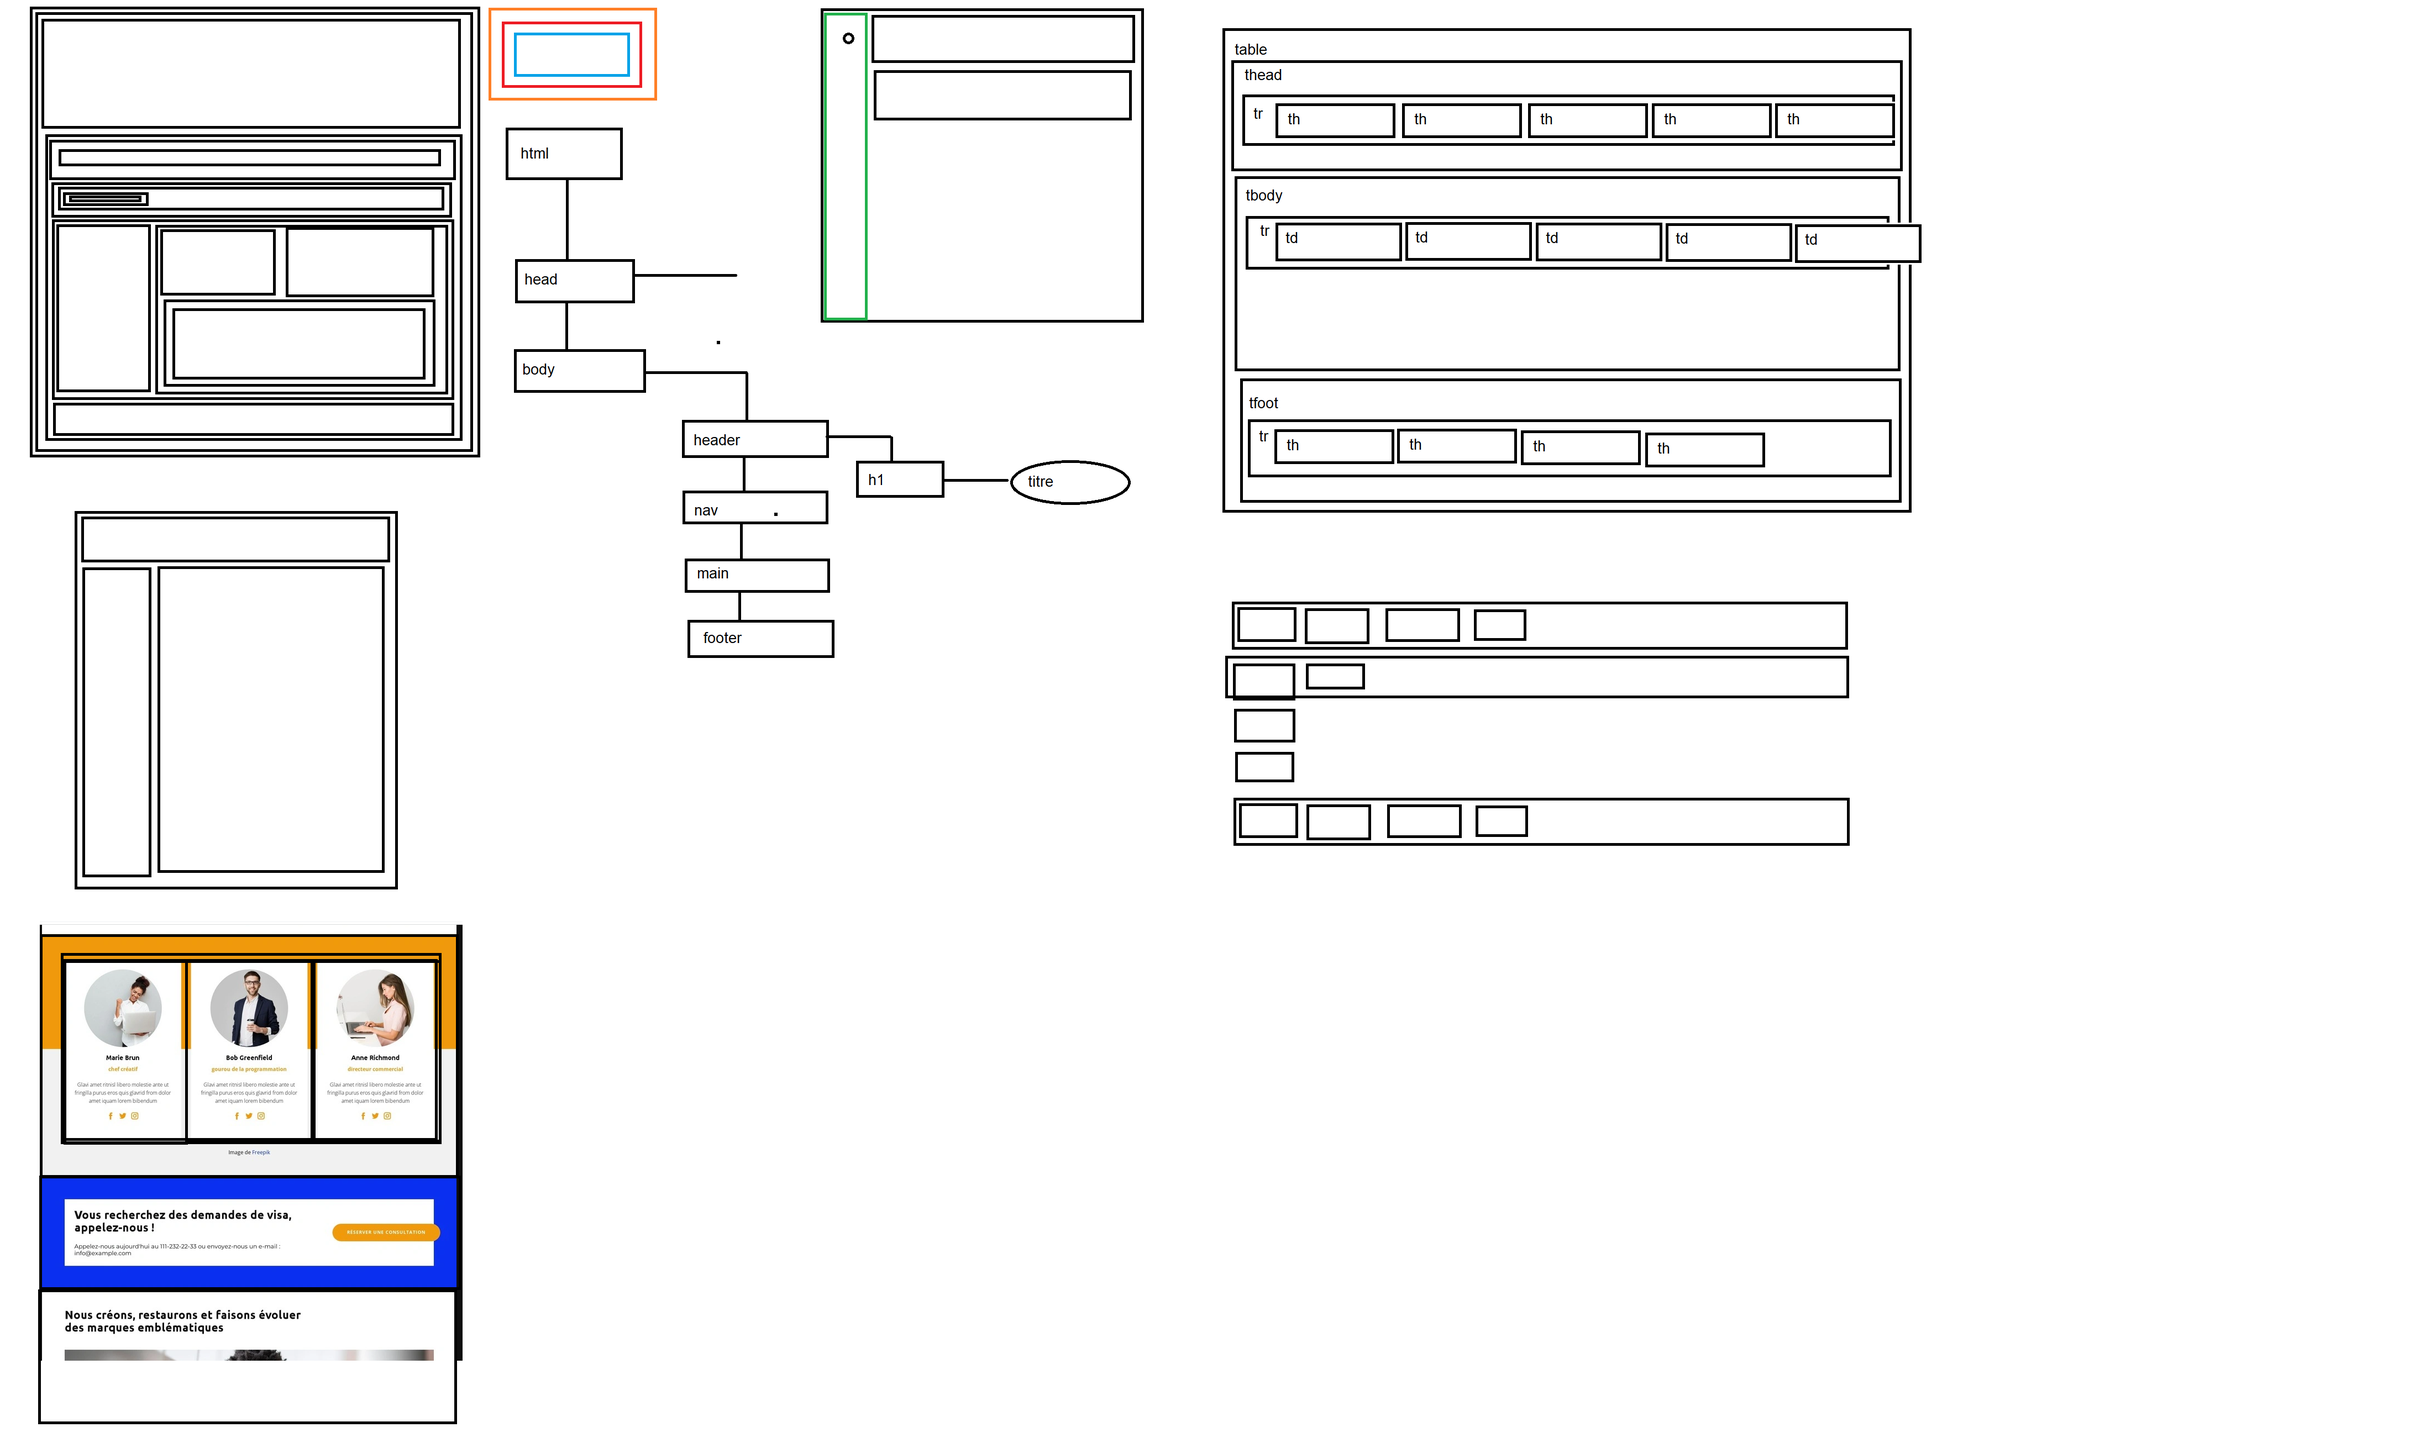
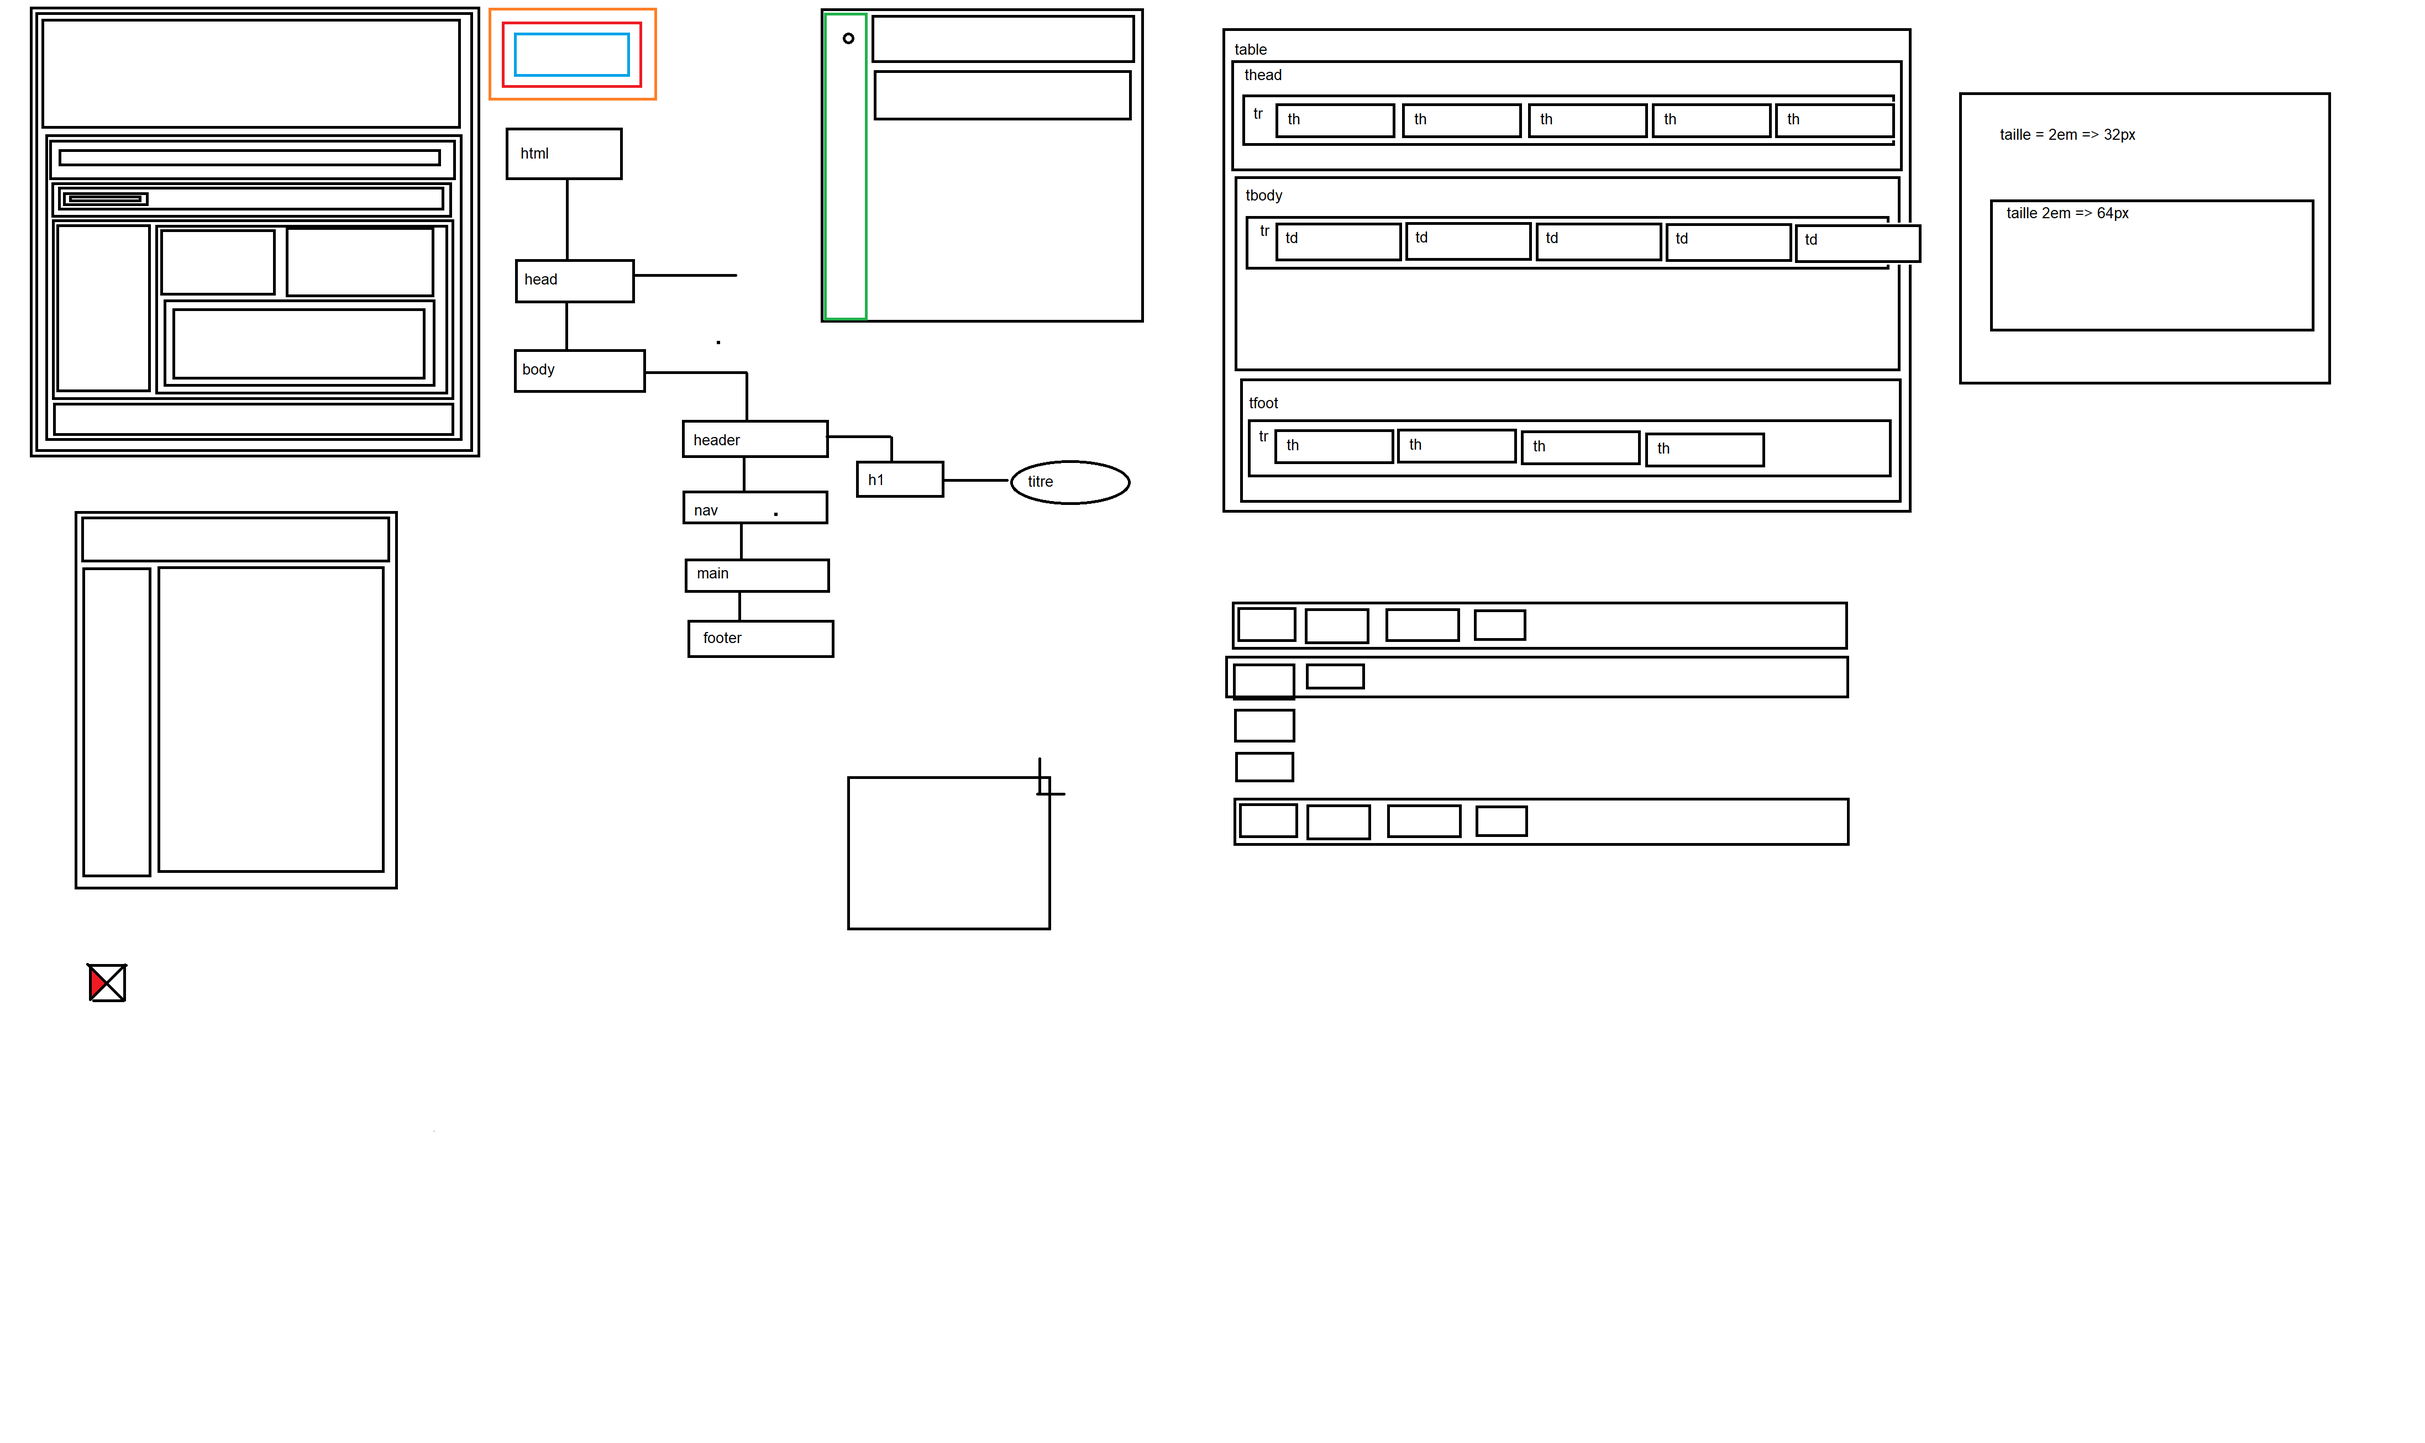
les formulaires pt 1

diff --git a/formulaire.html b/formulaire.html
@@ -1,0 +1,154 @@
+<!DOCTYPE html>
+<html lang="fr">
+
+<head>
+    <meta charset="UTF-8" />
+    <meta name="viewport" content="width=device-width, initial-scale=1.0" />
+    <meta name="description" content="Le site fait avec le formateur pour la formation HTML - CSS Initiation" />
+    <title>Formation HTML CSS - Les liens</title>
+    <link rel="stylesheet" href="./css/style.css" media="screen" />
+    <link rel="stylesheet" href="./css/formulaire.css" media="screen" />
+</head>
+
+<body id="top">
+    <header>
+        <h1>Formation HTML CSS</h1>
+    </header>
+    <nav>
+        <ul>
+            <li><a href="./" target="_self" title="Lien vers la page d'accueil">Accueil</a></li>
+            <li><a href="./liens.html" target="_self" title="Les liens internet">Les liens</a></li>
+            <li><a href="./autres-balises.html" target="_self" title="Lien vers autres balises">Autres balises</a></li>
+            <li><a href="./css-intro.html" target="_self" title="lien vers l'intro CSS">CSS Intro</a></li>
+            <li><a href="./formulaire.html" target="_self" title="lien vers les formulaire">Formulaires</a></li>
+        </ul>
+    </nav>
+    <aside>
+        <nav>
+            <h3>Calendrier</h3>
+            <ul>
+                <li><a href="#" target="_self" title="test">lien Calendrier</a></li>
+                <li><a href="#" target="_self" title="test">lien Calendrier</a></li>
+                <li><a href="#" target="_self" title="test">lien Calendrier</a></li>
+                <li><a href="#" target="_self" title="test">lien Calendrier</a></li>
+                <li><a href="#" target="_self" title="test">lien Calendrier</a></li>
+            </ul>
+        </nav>
+    </aside>
+    <main>
+        <section>
+            <article>
+                <header>
+                    <h2>
+                        Les formulaires
+                    </h2>
+                </header>
+                <main>
+                    <p>
+                        Les formulaires servent à récupérer des informations.
+                    </p>
+                    <h2>Exemple de formulaire et déléments de formulaire</h2>
+                    <p>
+                        un formulaire se déclare avec la balise form. Il possède des attributs, 
+                        les plus important étants la méthode (method) et l'action (action)
+                    </p>
+                    <h3>Method</h3>
+                    <p>
+                        L'attribut method défini la façon dont vont être envoyées les données inscrites dans les 
+                        éléments du formulaire : get et post
+                    </p>
+                    <ul>
+                        <li>
+                            get : les données sont transférées dans l'url selon 
+                            une combinaison ?nomVariable=variable
+                        </li>
+                        <li>
+                            Post : Les données sont envoyées dans l'entête HTTP de la page de traîtement.
+                        </li>
+                    </ul>
+                    <h3>Action</h3>
+                    <p>
+                        Détermine la page de traîtement des données du formulaire
+                    </p>
+                    <h3>Notre formulaire</h3>
+                    <form method="get" action="./formulaire.html">
+                        <fieldset>
+                            <legend>
+                                Civilité
+                            </legend>
+                            <p>
+                                <label for="nom">Nom *</label> 
+                                <input type="text" name="nom" id="nom" required placeholder="Entrez votre nom" autofocus aria-describedby="nom-help" />
+                            </p>
+                            <div class="form-help" id="nom-help">
+                                Votre nom est requis pour la prise de contact ultérieure
+                            </div>
+                            <p>
+                                <label for="prenom">Prénom</label> 
+                                <input type="text" name="prenom" id="prenom" placeholder="Entrez votre prénom" aria-describedby="prenom-help" />
+                            </p>
+                            <div class="form-help" id="prenom-help">
+                                Inscrivez votre prénom
+                            </div>
+                            <p>
+                                <label for="email">Email *</label> 
+                                <input type="email" name="email" id="email" required placeholder="Entrez votre email" aria-describedby="email-help" />
+                            </p>
+                            <div class="form-help" id="prenom-help">
+                                Votre email est requis pour la prise de contact ultérieure
+                            </div>
+                        </fieldset>
+                        <fieldset>
+                            <legend>
+                                Votre demande
+                            </legend>
+                            <p>
+                                <label for="typeDemande">Type de demande</label> 
+                                <select name="typeDemande" id="typeDemande" aria-describedby="typeDemande-help">
+                                    <option value="">Choisir le type de demande dans la liste</option>
+                                    <optgroup label="Produits">
+                                        <option value="devisProduit">
+                                            Demande de devis produit
+                                        </option>
+                                        <option value="infoProduit">
+                                            Demande d'information produit
+                                        </option>
+                                    </optgroup>
+                                    <optgroup label="Prestations">
+                                        <option value="devisPresta">
+                                            Demande de devis prestation
+                                        </option>
+                                        <option value="infoPresta">
+                                            Demande d'information prestation
+                                        </option>
+                                    </optgroup>
+                                </select>
+                                <div class="form-help" id="typeDemande-help">
+                                    Veuillez choisir un type de demande valide.
+                                </div>
+                            </p>
+                            <p>
+                                
+                            </p>
+                        </fieldset>
+                        <p>
+                            <button type="submit" name="envoi" value="okForm">
+                                Soumettre
+                            </button>
+                        </p>
+                    </form>
+                </main>
+            </article>
+        </section>
+    </main>
+    <footer>
+        <p>
+            &copy; DAWAN - JUL 2023
+        </p>
+    </footer>
+    <div id="toTop">
+        <a href="#top">&uarr;</a>
+    </div>
+</body>
+
+</html>

diff --git a/css/style.css b/css/style.css
@@ -1,3 +1,63 @@
+/*
+Unités de dimension les plus utilisés en web
+
+px          =>  Pixel
+em          =>  cadratin : unité de mesure en print sur les presses. 
+                le cadratin se calcul part rapport à la taille de la police dans l'élément parent
+rem         =>  cadratin racine : se calcul part rapport à la taille de la police dans l'élément racine
+%           =>  Pourcentage, de l'espace disponible autour de l'élément
+vw & vh     =>  vw : viewport widthn; vh : viewport height
+
+*/
+
+/*
+
+sélecteur CSS :
+    ATTENTION : en CSS, on impacte tous les éléments correspondants aux sélecteurs écrit
+    
+    sélecteurs simples : balise, identifiant et par classe
+        p                   => tous les éléments p rencontrés dans le document
+                            pas de caractère spécial devant l'élément donc il s'agit d'une balise
+        #special            => l'élément ayant comme attribut id="special"
+                            le caractère # indique qu'on se réfère à l'id
+                            => les id sont uniques dans la page
+        .titreDeChapitre    => les éléments ayant au moins la class="titreDeChapitre" 
+                            le caractère . indique qu'on se réfère à une classe
+                            => ATTENTION : si un élément class="titreDeChapitre toto tata" comme il possède au moins
+                            la classe titreDeChapitre alors il sera trouvé
+    Sélecteur avancés : selon les attributs                                  
+        [data-test]                     => les éléments ayant au moins un attribut nommé data-test
+        [alt]                           => les éléments ayant au moins un attribut alt
+        [data-test="toto"]              => les éléments ayant au moins un attribut nommé data-test="toto"
+        [data-col][data-line]           => les éléments ayant au moins un attribut data-col ET un attribut data-line
+        [data-col="3"][data-line]       => les éléments ayant au moins un attribut data-col="3" ET un attribut data-line
+        [data-col][data-line="2"]       => les éléments ayant au moins un attribut data-col ET un attribut data-line="2"
+        [data-col="3"][data-line="2"]   => les éléments ayant au moins un attribut data-col="3" ET un attribut data-line="2"
+
+    Sélecteur avancés : mélange des sélecteurs simples et ou de sélecteurs avancés
+        h3.titreDeChapitre  => tous les titre h3 ayant la classe titreDeChapitre
+                            si l'élément et la classe sont collés, c'est que l'élément doit avoir au moins cette classe
+        article #special    => un élément avec id="special" enfant direct OU indirect d'un élément article
+                            si l'élément et l'id recherché sont séparés, cela indique une filiation directe ou indirecte
+        main > p            => tous les éléments p enfants directs d'un élément main
+                            le chevron fermant > entre les deux éléments indique une filiation directe.
+        p#special           => un élément p avec id="special"
+        .toto.tata          => un élément ayant au moins les deux classes suivantes toto et tata
+        .toto .tata         => un élément ayant au moins la classe tata enfant direct ou indirect d'un élément ayant au moins la classe toto
+    
+    Pseudo sélecteurs (sélécteur qui permet des "tri" ou des "filtres" sur des sélecteurs )
+        p:nth-of-type(odd)  => tous les paragraphes du document en position impaire
+                            nth-child() le(s) nième(s) enfant(s)
+                            les paramètres : 
+                                odd => impaire - event => paire, Xn => tous les X enfants , Y => le Yème
+                                2n+1
+
+        article:last-child:nth-of-type(4n+3)    => l'article doit être le dernier article et le troisième article d'une ligne de 4
+                                                paramètres :    4n => le nombre d'élément par ligne
+                                                                +3 => le troisième de la ligne
+
+*/
+
 /* déclarations générales */
 /* 
 la déclaration à la racine permet de définir des éléments avant la feuille de style du navigateur.
@@ -107,11 +167,19 @@ p.bilbo{
 
 #listeCustom li::before{
     content: ">";
-    border: 5px solid transparent;
-    border-left-width: 10px;
-    border-left-color: red;
+}
+
+.triangle-rouge{
     width: 0;
     height: 0;
+    --taille-base: 50px;
+    border-color: transparent;
+    border-style: solid;
+    border-left-width: calc( var(--taille-base) * 0.866);
+    border-top-width: calc( var(--taille-base) / 2);
+    border-bottom-width: calc( var(--taille-base) / 2);
+    border-left-color: red;
+    margin: 2rem;
 }
 
 /* déclaration de structure */

diff --git a/css/formulaire.css b/css/formulaire.css
@@ -1,0 +1,17 @@
+form fieldset{
+    border-style: none;
+    border-radius: 0.5rem;
+    box-shadow: 0 0 5px #a0a0a0;
+}
+
+form fieldset legend{
+    padding-left: 0.5rem;
+    padding-right: 0.5rem;
+    border-radius: 0.5rem;
+    background-color: white;
+    box-shadow: 0 0 5px #a0a0a0;
+}
+
+.form-help{
+    font-size: 0.8rem;
+}

diff --git a/css-intro.html b/css-intro.html
@@ -254,6 +254,7 @@ p, li, h2{
                         <li>Élément</li>
                         <li>Élément</li>
                     </ul>
+                    <div class="triangle-rouge"></div>
                 </main>
             </article>
         </section>
